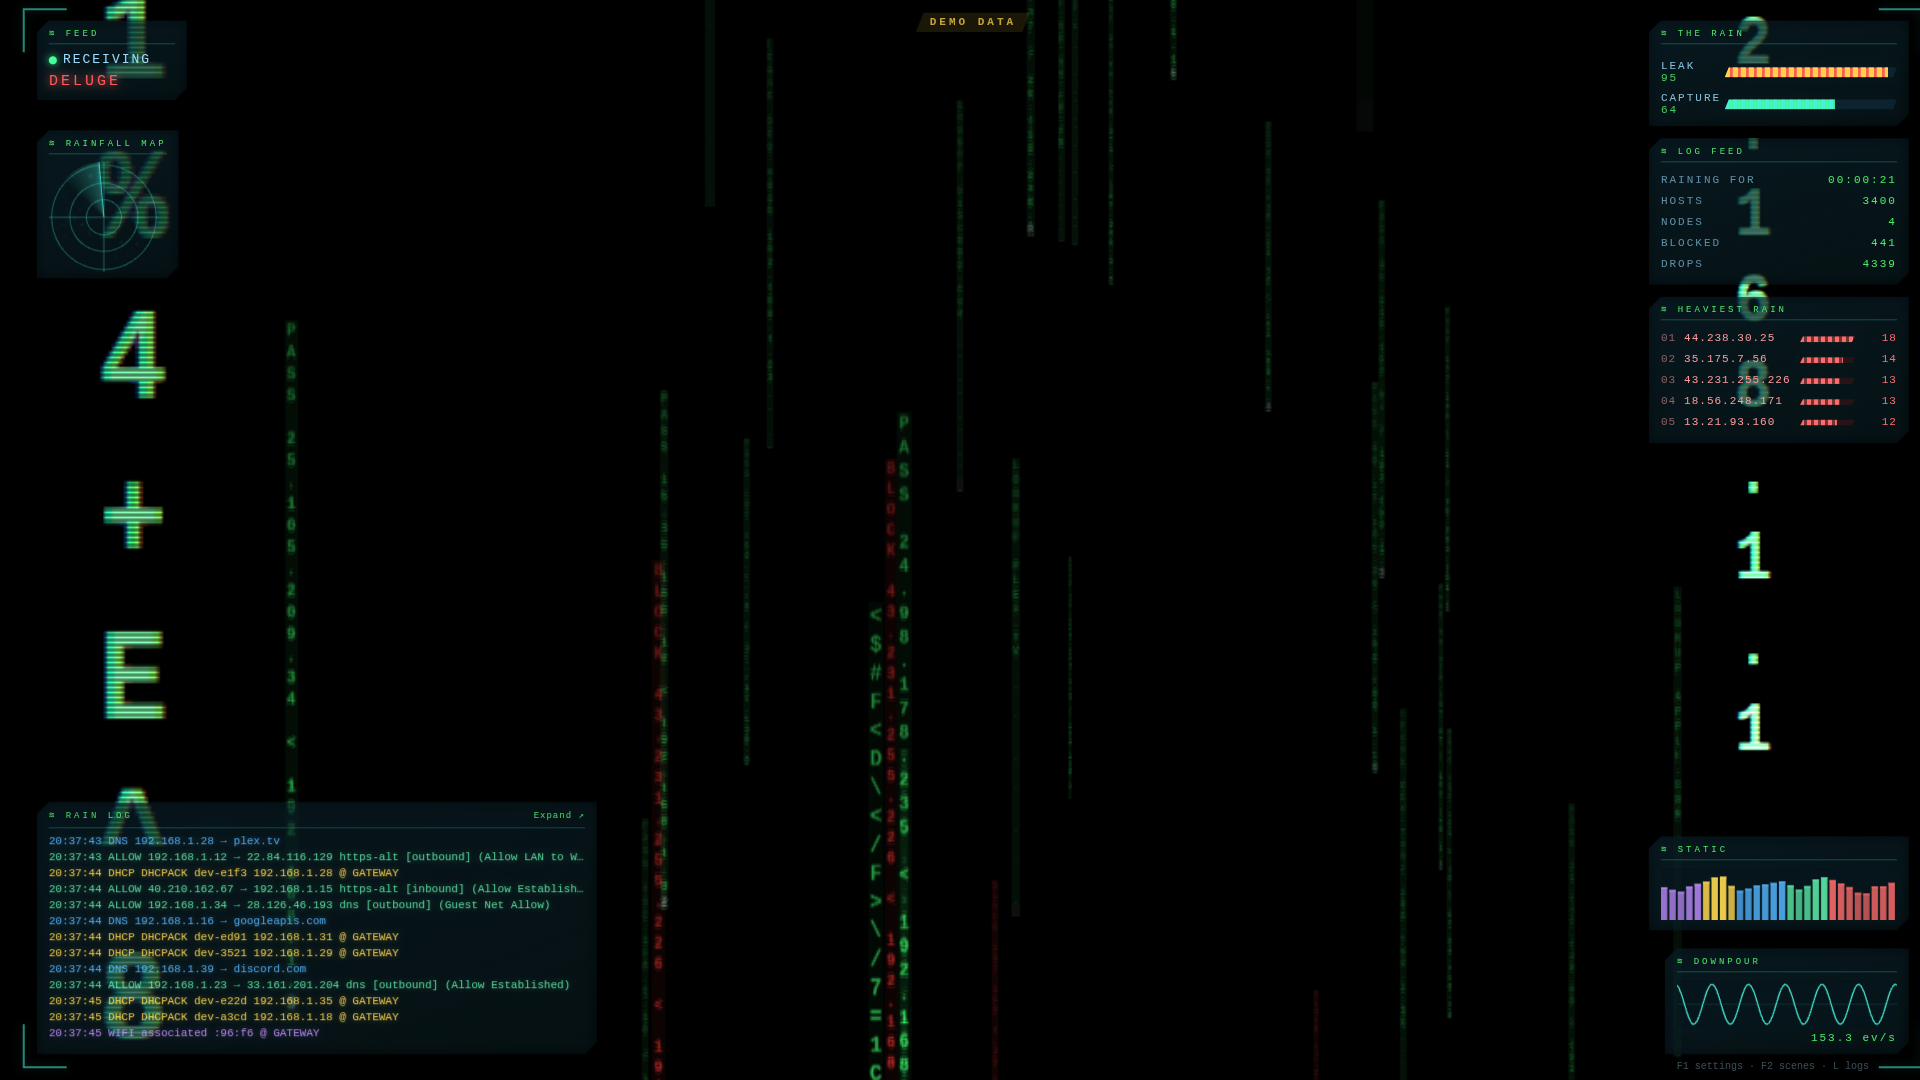
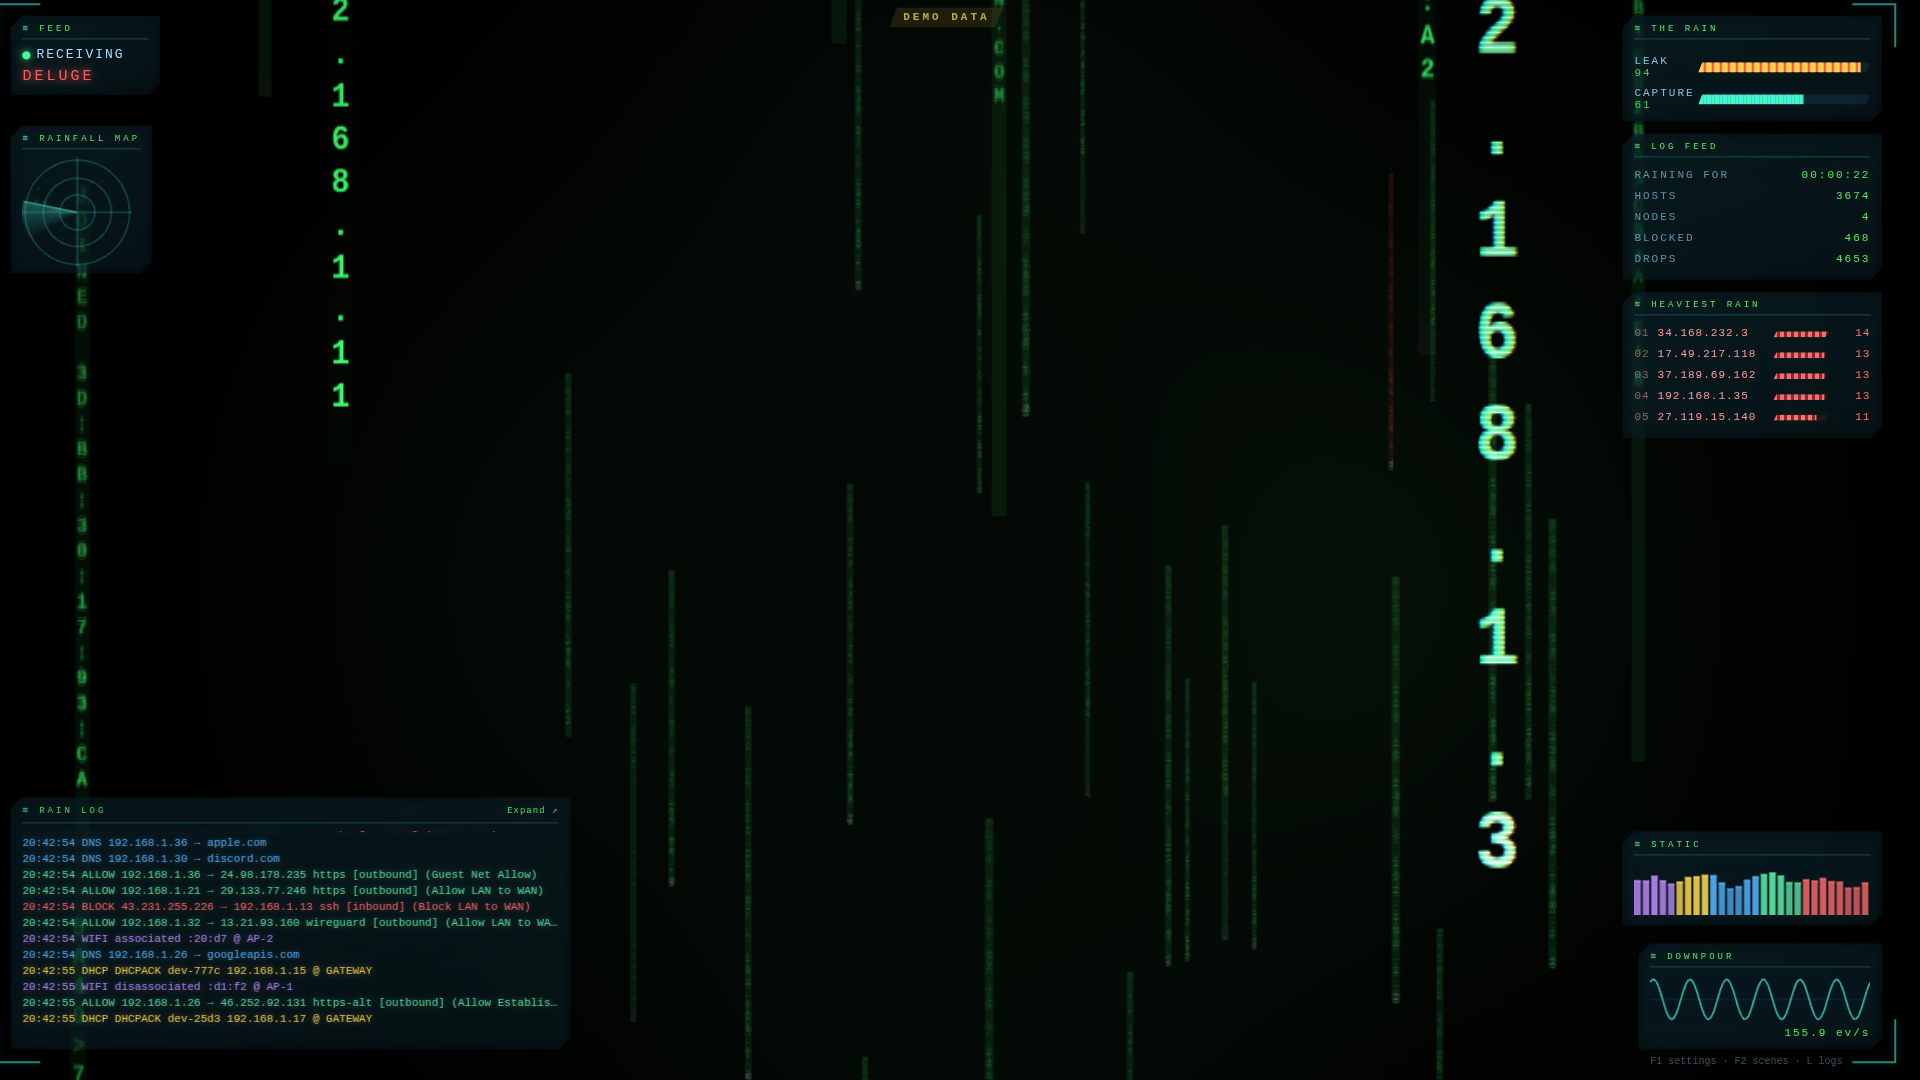
the rain: fog bank and hard scanlines up front
a mottled green fog bank glows around the vanishing point so the far
end of the tunnel reads as depth, not black; distance blur ramps in
earlier and stronger. at the very front the scanlines go hard - the
bright band is sharpened (pow up to 5) and the gaps deepen to near
black, so a column passing your nose is unmistakably drawn on a tube

diff --git a/web/src/themes/rain/shader.ts b/web/src/themes/rain/shader.ts
@@ -163,7 +163,12 @@ vec3 glyphColor(float cls) {
 
 void main() {
   vec2 uv = vUv;
-  vec3 col = vec3(0.0);
+  // background fog bank: the far end of the tunnel, denser toward the
+  // vanishing point and mottled so it reads as depth haze, not a vignette
+  vec2 fp = (uv - uVp) * vec2(uAspect, 1.0);
+  float fogBank = (1.0 - smoothstep(0.05, 0.95, length(fp))) * uFog;
+  float mottle = 0.7 + 0.3 * sin(fp.x * 6.0 + uTime * 0.1) * sin(fp.y * 5.0 - uTime * 0.07);
+  vec3 col = vec3(0.028, 0.075, 0.038) * fogBank * mottle;
   for (int i = 0; i < MAXC; i++) {
     float fi = float(i);
     if (fi >= uN) break;
@@ -198,7 +203,7 @@ void main() {
     float a = texture(uAtlas, (ac + f) / vec2(16.0, 6.0)).r;
     // distance haze: far glyphs blur into the fog, so the field reads as
     // a thick volume you are falling through, not a grid of sprites
-    float blur = clamp((z - 1.1) / 3.0, 0.0, 1.0) * 0.18;
+    float blur = clamp((z - 1.0) / 2.8, 0.0, 1.0) * 0.22;
     if (blur > 0.004) {
       vec2 o = vec2(blur, blur * 1.72);
       a = (a
@@ -218,14 +223,19 @@ void main() {
     if (d < 1.0) tint = mix(tint, vec3(0.85, 1.0, 0.92), 1.0 - d);
     float lit2 = lit * fog * near * 1.25;
     // close columns are being drawn on a CRT: scanlines, RGB fringing,
-    // a slow flicker and a little bloom - all ramping in with nearness
+    // a slow flicker and a little bloom - all ramping in with nearness.
+    // at the very front the scanlines go hard: wide black gaps, thin bright
+    // lines, the way a real tube looks when your nose is against the glass
     float crt = 1.0 - smoothstep(0.15, 1.2, z);
+    float front = 1.0 - smoothstep(0.10, 0.42, z);
     if (crt > 0.02) {
       float px = 0.09 * crt;
       float ar = texture(uAtlas, (ac + f + vec2(-px, 0.0)) / vec2(16.0, 6.0)).r;
       float ab = texture(uAtlas, (ac + f + vec2(px, 0.0)) / vec2(16.0, 6.0)).r;
       vec3 rgb = tint * a + vec3(0.55, 0.08, 0.0) * ar * 0.6 + vec3(0.0, 0.12, 0.55) * ab * 0.6;
-      float scan = 1.0 - 0.68 * crt * (0.5 + 0.5 * cos(uv.y * uRes.y * 2.0944));
+      float band = 0.5 + 0.5 * cos(uv.y * uRes.y * 2.0944);
+      band = pow(band, 1.0 + 2.5 * front);
+      float scan = 1.0 - crt * (0.72 + 0.28 * front) * band;
       float flick = 1.0 - 0.05 * crt * sin(uTime * 37.0);
       col += rgb * lit2 * scan * flick * (1.0 + 0.35 * crt);
     } else {
